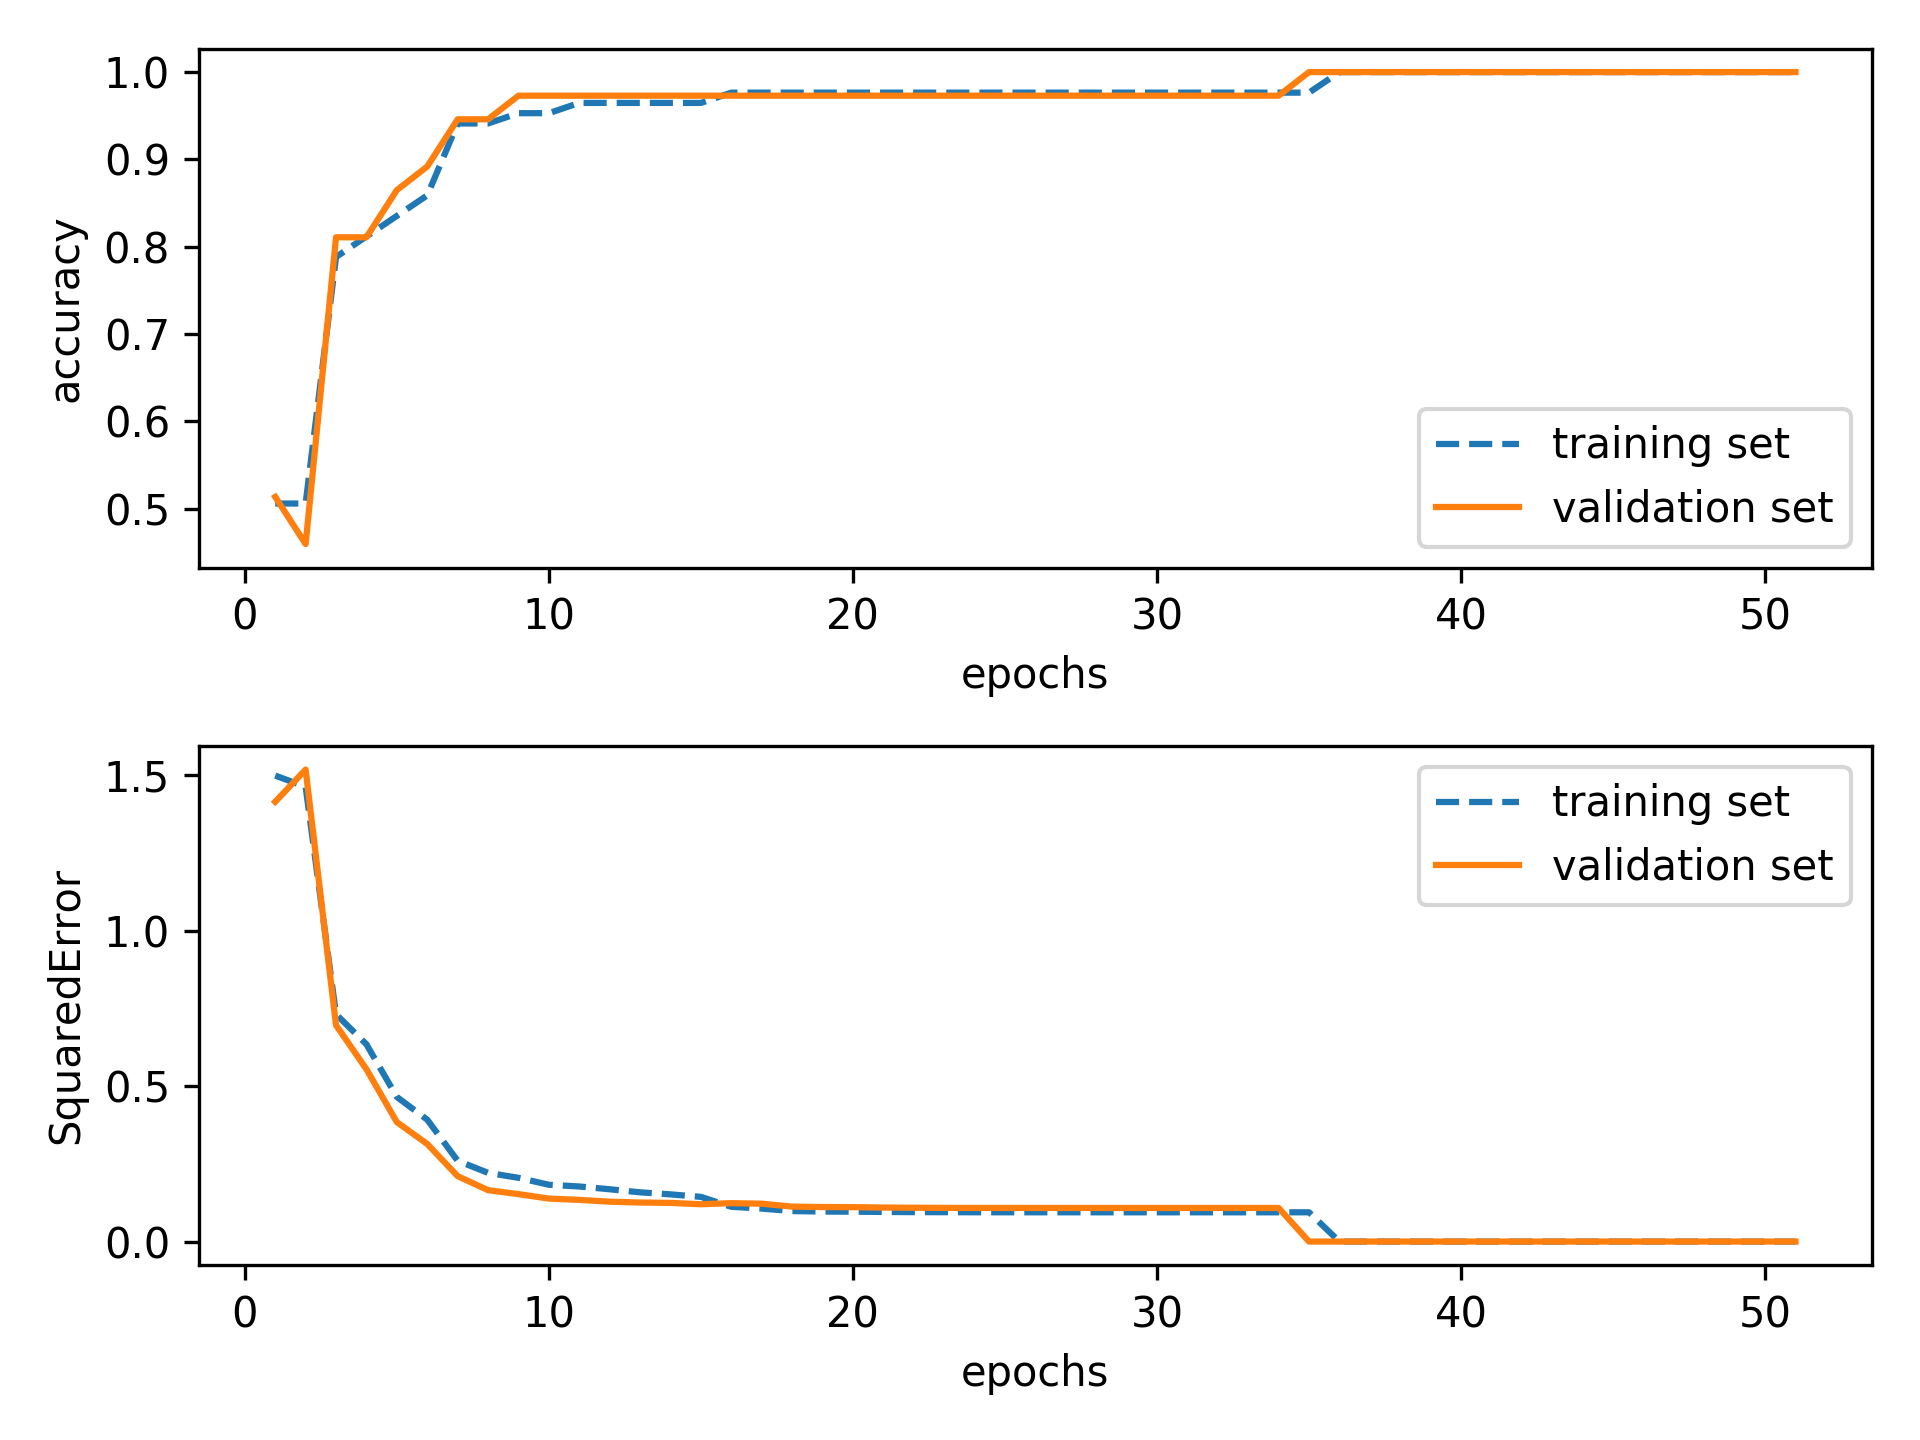
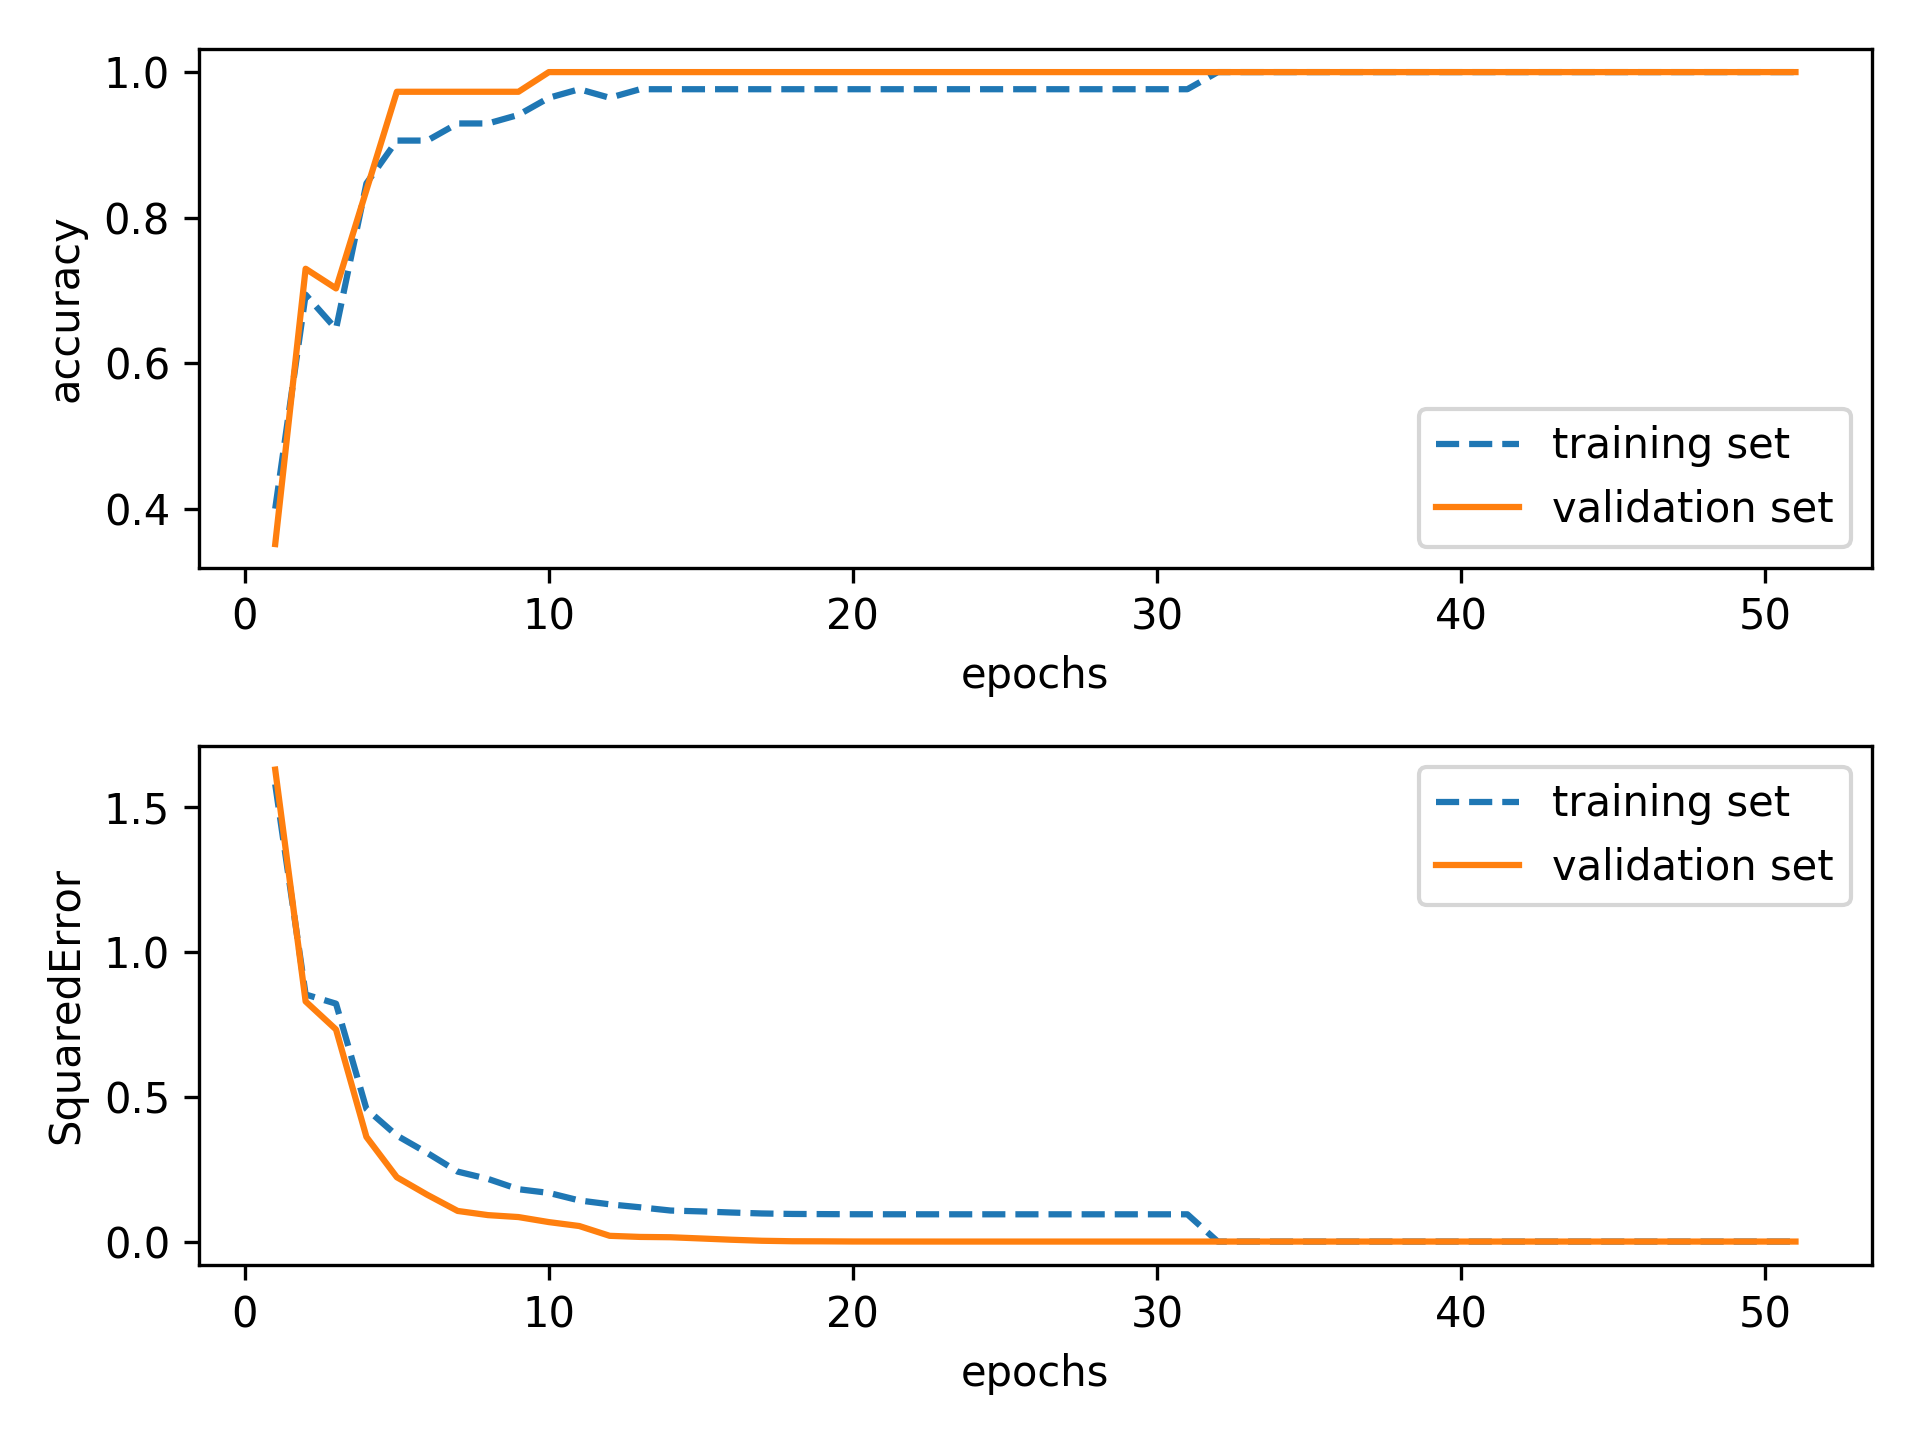
fixed trainLBFGS

diff --git a/src/Validation_CM.py b/src/Validation_CM.py
@@ -147,8 +147,8 @@ def grid_search_CM(parameter, loss_obj, tr_patterns, tr_labels, vl_patterns,vl_l
 
                             squared_error = np.pad(squared_error,(0,diff),'constant',constant_values=(0.0,0.0))
                             misClass_error = np.pad(misClass_error,(0,diff),'constant',constant_values=(0.0,0.0))
-                            squared_error_validation = np.pad(squared_error_validation,(0,diff+1),'constant',constant_values=(0.0,0.0))
-                            misClass_error_validation = np.pad(misClass_error_validation,(0,diff+1),'constant',constant_values=(0.0,0.0))
+                            squared_error_validation = np.pad(squared_error_validation,(0,diff),'constant',constant_values=(0.0,0.0))
+                            misClass_error_validation = np.pad(misClass_error_validation,(0,diff),'constant',constant_values=(0.0,0.0))
 
                             # append result of single epoch in list previously created
                             squared_error_average += squared_error

diff --git a/src/Neural_network.py b/src/Neural_network.py
@@ -568,11 +568,6 @@ class Network:
             print "%d\t\t%f\t%f\t\t%f\t%f\t%f\t%f" % \
                   (epoch+1, loss, miss, norm(gradient_new), norm(H), rho_k, alpha)
 
-            # stop criterion
-            if (norm(gradient_old)) < 1e-6:
-                print "break at", epoch
-                break
-
             # update x_old and gradient_old
             x_old = x_new
             gradient_old = gradient_new
@@ -583,6 +578,11 @@ class Network:
 
             losses_validation = np.append(losses_validation,squared_error_validation_epoch)
             misses_validation = np.append(misses_validation,misClass_error_validation_epoch)
+
+            # stop criterion
+            if (norm(gradient_old)) < 1e-6:
+                print "break at", epoch
+                break
 
         return losses, misses,losses_validation,misses_validation
 

diff --git a/src/CM.py b/src/CM.py
@@ -25,9 +25,6 @@ def main():
     neuronsType = [InputNeuron, TanHNeuron, TanHNeuron]
 
     network = Network(arch, neuronsType)
-    #network.trainLBFGS(training_patterns,training_labels,validation_patterns,validation_labels,lossObject,m=10,
-                       #epochs=50,regularization=0.0,theta=0.9,c_1=0.0001,c_2=0.9,alpha_0=1)
-    #define grid search parameter
     c_1 = [0.0001]
     c_2 = [0.9]
     theta = [0.9]
